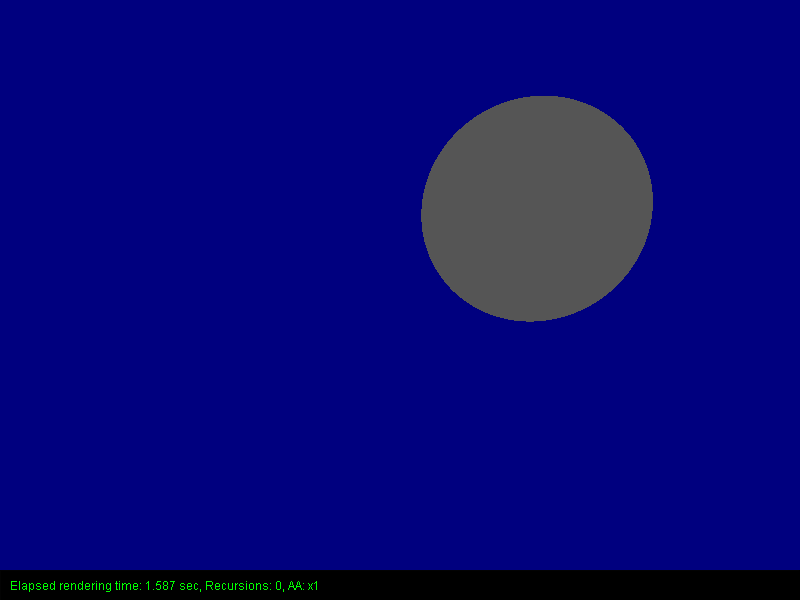
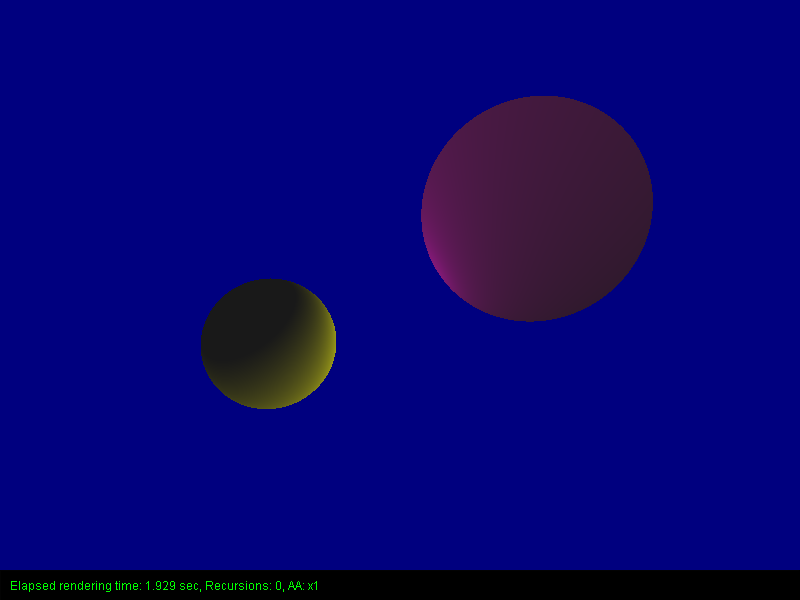
trying and getting closer but doesnt feel right

Changed region(s): [[0.5, 0.15, 0.8438, 0.54], [0.25, 0.45, 0.4375, 0.69], [0.1875, 0.96, 0.2188, 0.99]]

diff --git a/VCG_Raytracer/src/scene/Scene.java b/VCG_Raytracer/src/scene/Scene.java
@@ -29,13 +29,18 @@ public class Scene {
         lightList = new ArrayList<PointLight>();
         Log.print(this, "Init");
 
-        Material mat_lambert = new Lambert(new RgbColor(0.8f,0.8f,0.8f));
-        //createSphere(new Vec3(0,0,0), 1, mat_lambert);
+        //create materials
+        Material mat_lambert = new Lambert(new RgbColor(0.9f,0.2f,0.5f));
+        Material mat_lambert2 = new Lambert(new RgbColor(0.8f,0.8f,0.8f));
+
+        //create spheres
         createSphere(new Vec3(1.5f,1,0), 1.25f, mat_lambert);
-        //createSphere(new Vec3(-1f,0,0), 0.75f);
-        createPointLight(new Vec3 (0.8f,0.8f,0), RgbColor.PURPLE);
-        createPointLight(new Vec3 (-0.8f,-0.8f,0), RgbColor.RED);
-        createPointLight(new Vec3(0, 0, 0), RgbColor.GREEN);
+        createSphere(new Vec3(-1.5f,-0.5f,0), 0.75f, mat_lambert2);
+
+        //create lights
+        createPointLight(new Vec3 (3f,3f,0), RgbColor.PURPLE);
+        createPointLight(new Vec3 (0f,0f,1), RgbColor.RED);
+        createPointLight(new Vec3(-2, -3, -2), RgbColor.YELLOW);
         ambient_k = new RgbColor(0.1f,0.1f,0.1f);
     }
 
@@ -87,8 +92,8 @@ public class Scene {
         return lightList.getFirst();
     }
 
-    public ArrayList<Shape> getShapes(){
-        return this.shapeList;
+    public static ArrayList<Shape> getShapes(){
+        return shapeList;
     }
     
     public static ArrayList<PointLight> getLights(){
@@ -96,32 +101,39 @@ public class Scene {
     }
 
     public static RgbColor shade (Intersection _intersection) {
-        RgbColor pointColor = ambient_k;
+        RgbColor pointColor = new RgbColor(
+                                    ambient_k.red(),
+                                    ambient_k.green(),
+                                    ambient_k.blue()
+                                );
 
         for(Light currentLight : getLights()){
             Material material = _intersection.getShape().getMaterial();
             RgbColor diffuse = material.getColor(_intersection.getIntersectionPoint(), 
                                                 _intersection.getNormal(), 
                                                 currentLight);
+            
+            //we prob need to grab the light position and compare to our intersection point
+            float distance = currentLight.getPosition()
+                            .sub(_intersection.getIntersectionPoint())
+                            .length();
+            diffuse = diffuse.multScalar(distance * 0.25f); // *0.25 due to else impact either too big or too smol 
+            //value just depends on light distance which makes sense as you want further lights to have less impact....
+            //but for this surely there has to be a better way to make it seem balanced no?
 
             //System.out.println("DIFFUSE COLOR: " + diffuse);
             pointColor.add(diffuse.red(), diffuse.green(), diffuse.blue());
             //System.out.println("SHAPE COLOR: " + pointColor);
         }
 
-        pointColor = new RgbColor(pointColor.red()/getLights().size(), pointColor.green()/getLights().size(), pointColor.blue()/getLights().size());
-        
-                                            
-        
-
         return pointColor;
     }
 
-    /* 
+    
     public Intersection findClosestIntersection(Ray ray) {
         Intersection closest = new Intersection();
         for (Shape shape : shapeList) {
-            Intersection temp = shape.intersect(ray);
+            Intersection temp = shape.intersect(ray, 0); //added 2nd param for testing
             System.out.println(temp.isHit());
             if (temp.isHit() && temp.getDistance() < closest.getDistance()) {
                 System.out.println("SHAPE HIT");
@@ -129,6 +141,6 @@ public class Scene {
             }
         }
         return closest;
-    }*/
+    }
 
 }

diff --git a/VCG_Raytracer/src/scene/shape/Sphere.java b/VCG_Raytracer/src/scene/shape/Sphere.java
@@ -152,4 +152,57 @@ public class Sphere extends Shape{
         return this.material;
     }
 
+
+    //adding other version for testing
+    public Intersection intersect (Ray ray, int filler) {
+        Intersection intersection = new Intersection();
+
+        Vec3 ray_origin = ray.getOrigin();
+        Vec3 ray_direction = ray.getDirection();
+
+        //A = (float) Math.pow(checkRay.x, 2) + (float) Math.pow(checkRay.y, 2) + (float) Math.pow(checkRay.z, 2);
+        //ist das selbe wie
+        Float a = ray_direction.scalar(ray_direction);
+        //B = (float) (2 * (camPos.x * checkRay.x + camPos.y * checkRay.y + camPos.z * checkRay.z));
+        //ist das selbe wie
+        Float b = 2.0f * ray_origin.scalar(ray_direction);
+        //C = (float) (Math.pow(camPos.x,2) + Math.pow(camPos.y,2) + Math.pow(camPos.z,2) - Math.pow(radius,2));
+        //ist das selbe wie
+        Float c = ray_origin.scalar(ray_origin) - radius * radius;
+
+        float diskriminante = (float) (Math.pow(b, 2) - 4 * c);
+        
+        // Did we hit a sphere in line of sight?
+        intersection.setHit(diskriminante >= 0);
+        // Stop if we did not hit, or hit is behind camera
+        if(diskriminante < 0)
+            return intersection;
+
+        //calculating t's
+        float t0 = (float) (- b - Math.sqrt(diskriminante))/2;
+        float t1 = (float) (- b + Math.sqrt(diskriminante))/2;
+
+        // Deciding, which t is first contact infront of us
+        float t = -1;
+        if (t0 > 0 && t1 > 0) {
+            // Smaller one is chosen, closer to camera
+            t = Math.min(t0, t1);
+        } else if (t0 > 0) {
+            // The one that is positive is chosen
+            t = t0;
+        } else if (t1 > 0) {
+            t = t1;
+        }
+
+        // Giving over information to Intersection
+        // Hit is already set
+        intersection.setDistance(t);
+        intersection.setIntersectionPoint(ray_origin.add(ray_direction.multScalar(t))); // Ray start, into normalized direction * distance
+        intersection.setNormal(intersection.getIntersectionPoint().sub(position).normalize()); // Vector between intersection and sphere center = normal
+        intersection.setShape(this); // for material
+        intersection.setInRay(ray.calculateRayAt(t)); // primary Ray
+
+        return intersection;
+    }
+
 }

diff --git a/VCG_Raytracer/src/scene/material/Lambert.java b/VCG_Raytracer/src/scene/material/Lambert.java
@@ -26,7 +26,7 @@ public class Lambert extends Material {
         // Calculating the necessary Vectors for diffuse light component:
         // I * kd * (N x L) <- [(N x L)]
         Vec3 normal = _normal.normalize();
-        Vec3 vec_light = _position.sub(lightPosition).normalize();
+        Vec3 vec_light = lightPosition.sub(_position).normalize();
         Float scalar_normal_light = normal.scalar(vec_light);
 
         // Scalarproduct has to be above 0, else Light doesn't hit this point

diff --git a/VCG_Raytracer/src/scene/shape/Shape.java b/VCG_Raytracer/src/scene/shape/Shape.java
@@ -20,6 +20,7 @@ public abstract class Shape extends SceneObject {
     
     //prob another place for polymorphism
     public abstract void intersect(Ray checkRay);
+    public abstract Intersection intersect(Ray checkRay, int filler);
 
     public abstract Intersection getIntersectionData();
 

diff --git a/VCG_Raytracer/src/raytracer/Raytracer.java b/VCG_Raytracer/src/raytracer/Raytracer.java
@@ -86,7 +86,7 @@ public class Raytracer {
         //raytrace_backgroundOnly();
         //circle_radius1();
         a3_Beleuchtung();
-        System.out.println(mScene.getShapes());
+        System.out.println(mScene.getShapes().size());
 
 
     
